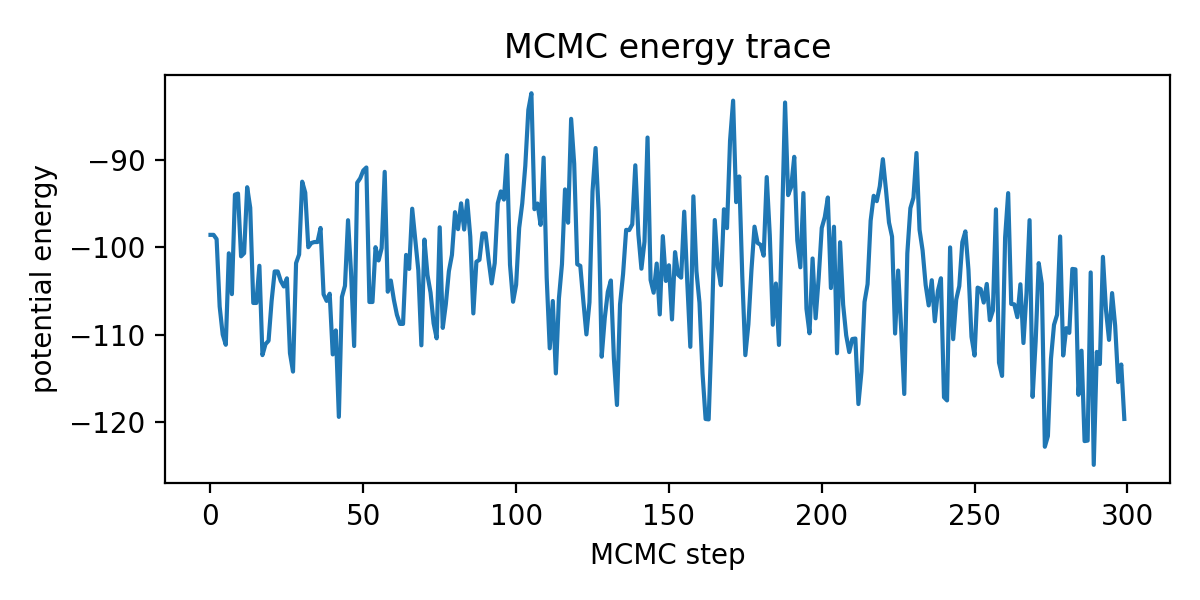
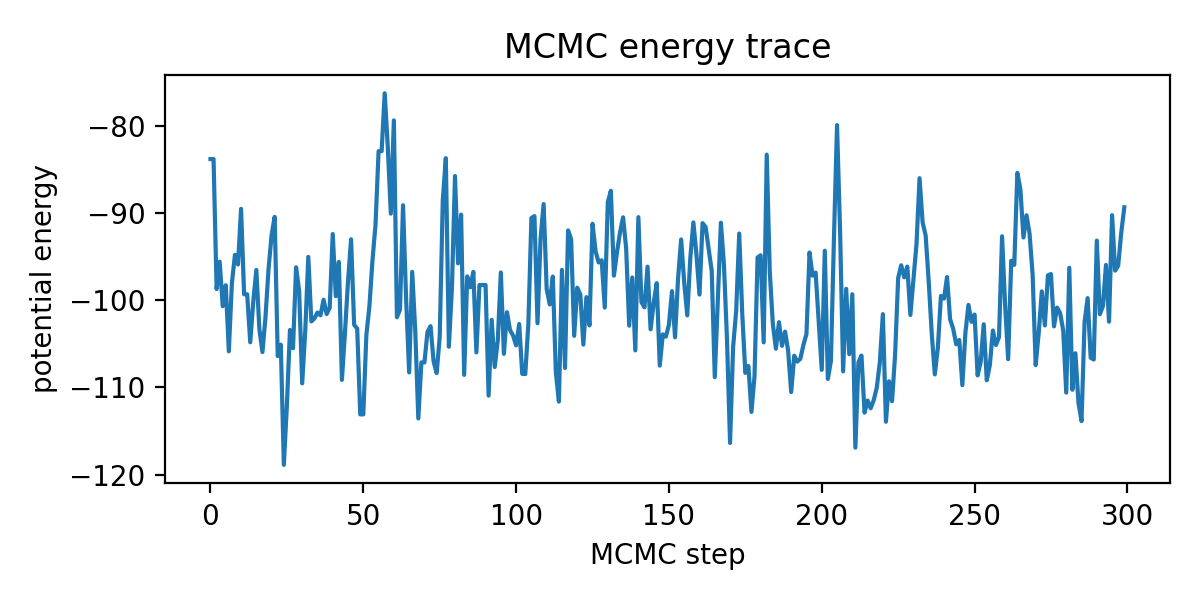
Fix recovery time to known value

diff --git a/examples/sir_hmc.py b/examples/sir_hmc.py
@@ -62,8 +62,8 @@ logging.basicConfig(format='%(message)s', level=logging.INFO)
 # return -inf.
 
 def global_model(population):
+    tau = args.recovery_time  # Assume this can be measured exactly.
     R0 = pyro.sample("R0", dist.LogNormal(0., 1.))
-    tau = pyro.sample("tau", dist.LogNormal(math.log(7.), 1.))
     rho = pyro.sample("rho", dist.Uniform(0, 1))
 
     # Convert interpretable parameters to distribution parameters.
@@ -98,7 +98,6 @@ def discrete_model(data, population):
 def generate_data(args):
     logging.info("Generating data...")
     params = {"R0": torch.tensor(args.basic_reproduction_number),
-              "tau": torch.tensor(args.recovery_time),
               "rho": torch.tensor(args.response_rate)}
     empty_data = [None] * (args.duration + args.forecast)
 
@@ -201,7 +200,7 @@ def infer_hmc_enum(args, data):
 def _infer_hmc(args, data, model, init_values={}):
     logging.info("Running inference...")
     kernel = NUTS(model,
-                  full_mass=[("R0", "tau", "rho")],
+                  full_mass=[("R0", "rho")],
                   max_tree_depth=args.max_tree_depth,
                   init_strategy=init_to_value(values=init_values),
                   jit_compile=args.jit, ignore_jit_warnings=True)
@@ -326,7 +325,6 @@ def heuristic_init(args, data):
                           DiscreteCosineTransform(dim=-1)])
 
     return {
-        "tau": torch.tensor(10.0),
         "R0": torch.tensor(2.0),
         "rho": torch.tensor(0.5),
         "S_aux": S_aux,
@@ -437,7 +435,6 @@ def vectorized_model(data, population):
 def evaluate(args, samples):
     # Print estimated values.
     names = {"basic_reproduction_number": "R0",
-             "recovery_time": "tau",
              "response_rate": "rho"}
     for name, key in names.items():
         mean = samples[key].mean().item()
@@ -449,7 +446,7 @@ def evaluate(args, samples):
     if args.plot:
         import matplotlib.pyplot as plt
         import seaborn as sns
-        fig, axes = plt.subplots(3, 1, figsize=(5, 8))
+        fig, axes = plt.subplots(2, 1, figsize=(5, 5))
         axes[0].set_title("Posterior parameter estimates")
         for ax, (name, key) in zip(axes, names.items()):
             truth = getattr(args, name)

diff --git a/tutorial/source/sir_hmc.rst b/tutorial/source/sir_hmc.rst
@@ -13,23 +13,26 @@ another 30 days. This takes about 3 minutes on my laptop.
 
 .. code-block:: none
 
-    $ python -O examples/sir_hmc.py -p 10000 -d 60 -f 30 --plot
-    ...
-    Generated 452 observed infections:
+    $ python examples/sir_hmc.py -p 10000 -d 60 -f 30 --plot
+    Generating data...
+    Observed 452/871 infections:
     0 0 2 1 2 0 0 3 2 0 1 3 1 3 0 1 0 6 4 3 6 4 4 3 3 3 5 3 3 3 5 1 4 6 4 2 6 8 7 4 11 8 14 9 17 13 9 14 10 15 16 22 20 22 19 20 28 25 23 21
     Running inference...
-    Sample: 100%|==========================| 300/300 [02:52,  1.74it/s, step size=1.12e-01, acc. prob=0.747]
+    Sample: 100%|=========================| 300/300 [02:35,  1.93it/s, step size=9.67e-02, acc. prob=0.878]
 
-                mean       std    median      5.0%     95.0%     n_eff     r_hat
-        R0      1.41      0.13      1.39      1.21      1.63      7.03      1.14
-       tau      7.46      1.32      7.01      5.65      9.68      5.38      1.29
-       rho      0.55      0.03      0.55      0.49      0.59      4.83      1.44
-       ...
+                    mean       std    median      5.0%     95.0%     n_eff     r_hat
+            R0      1.40      0.07      1.40      1.28      1.49     26.56      1.06
+           rho      0.47      0.02      0.47      0.44      0.52      7.08      1.22
+      S_aux[0]   9998.74      0.64   9998.75   9997.84   9999.67     28.74      1.00
+      S_aux[1]   9998.37      0.72   9998.38   9997.28   9999.44     52.24      1.02
+      ...
+      I_aux[0]      1.11      0.64      0.99      0.19      2.02     22.01      1.00
+      I_aux[1]      1.55      0.74      1.65      0.05      2.47     10.05      1.10
+      ...
 
     Number of divergences: 0
-    R0: truth = 1.5, estimate = 1.41 ± 0.134
-    tau: truth = 7, estimate = 7.46 ± 1.32
-    rho: truth = 0.5, estimate = 0.546 ± 0.0297
+    R0: truth = 1.5, estimate = 1.4 ± 0.0654
+    rho: truth = 0.5, estimate = 0.475 ± 0.023
 
 .. image:: _static/img/sir_hmc/forecast.png
     :alt: Forecast of new infections
